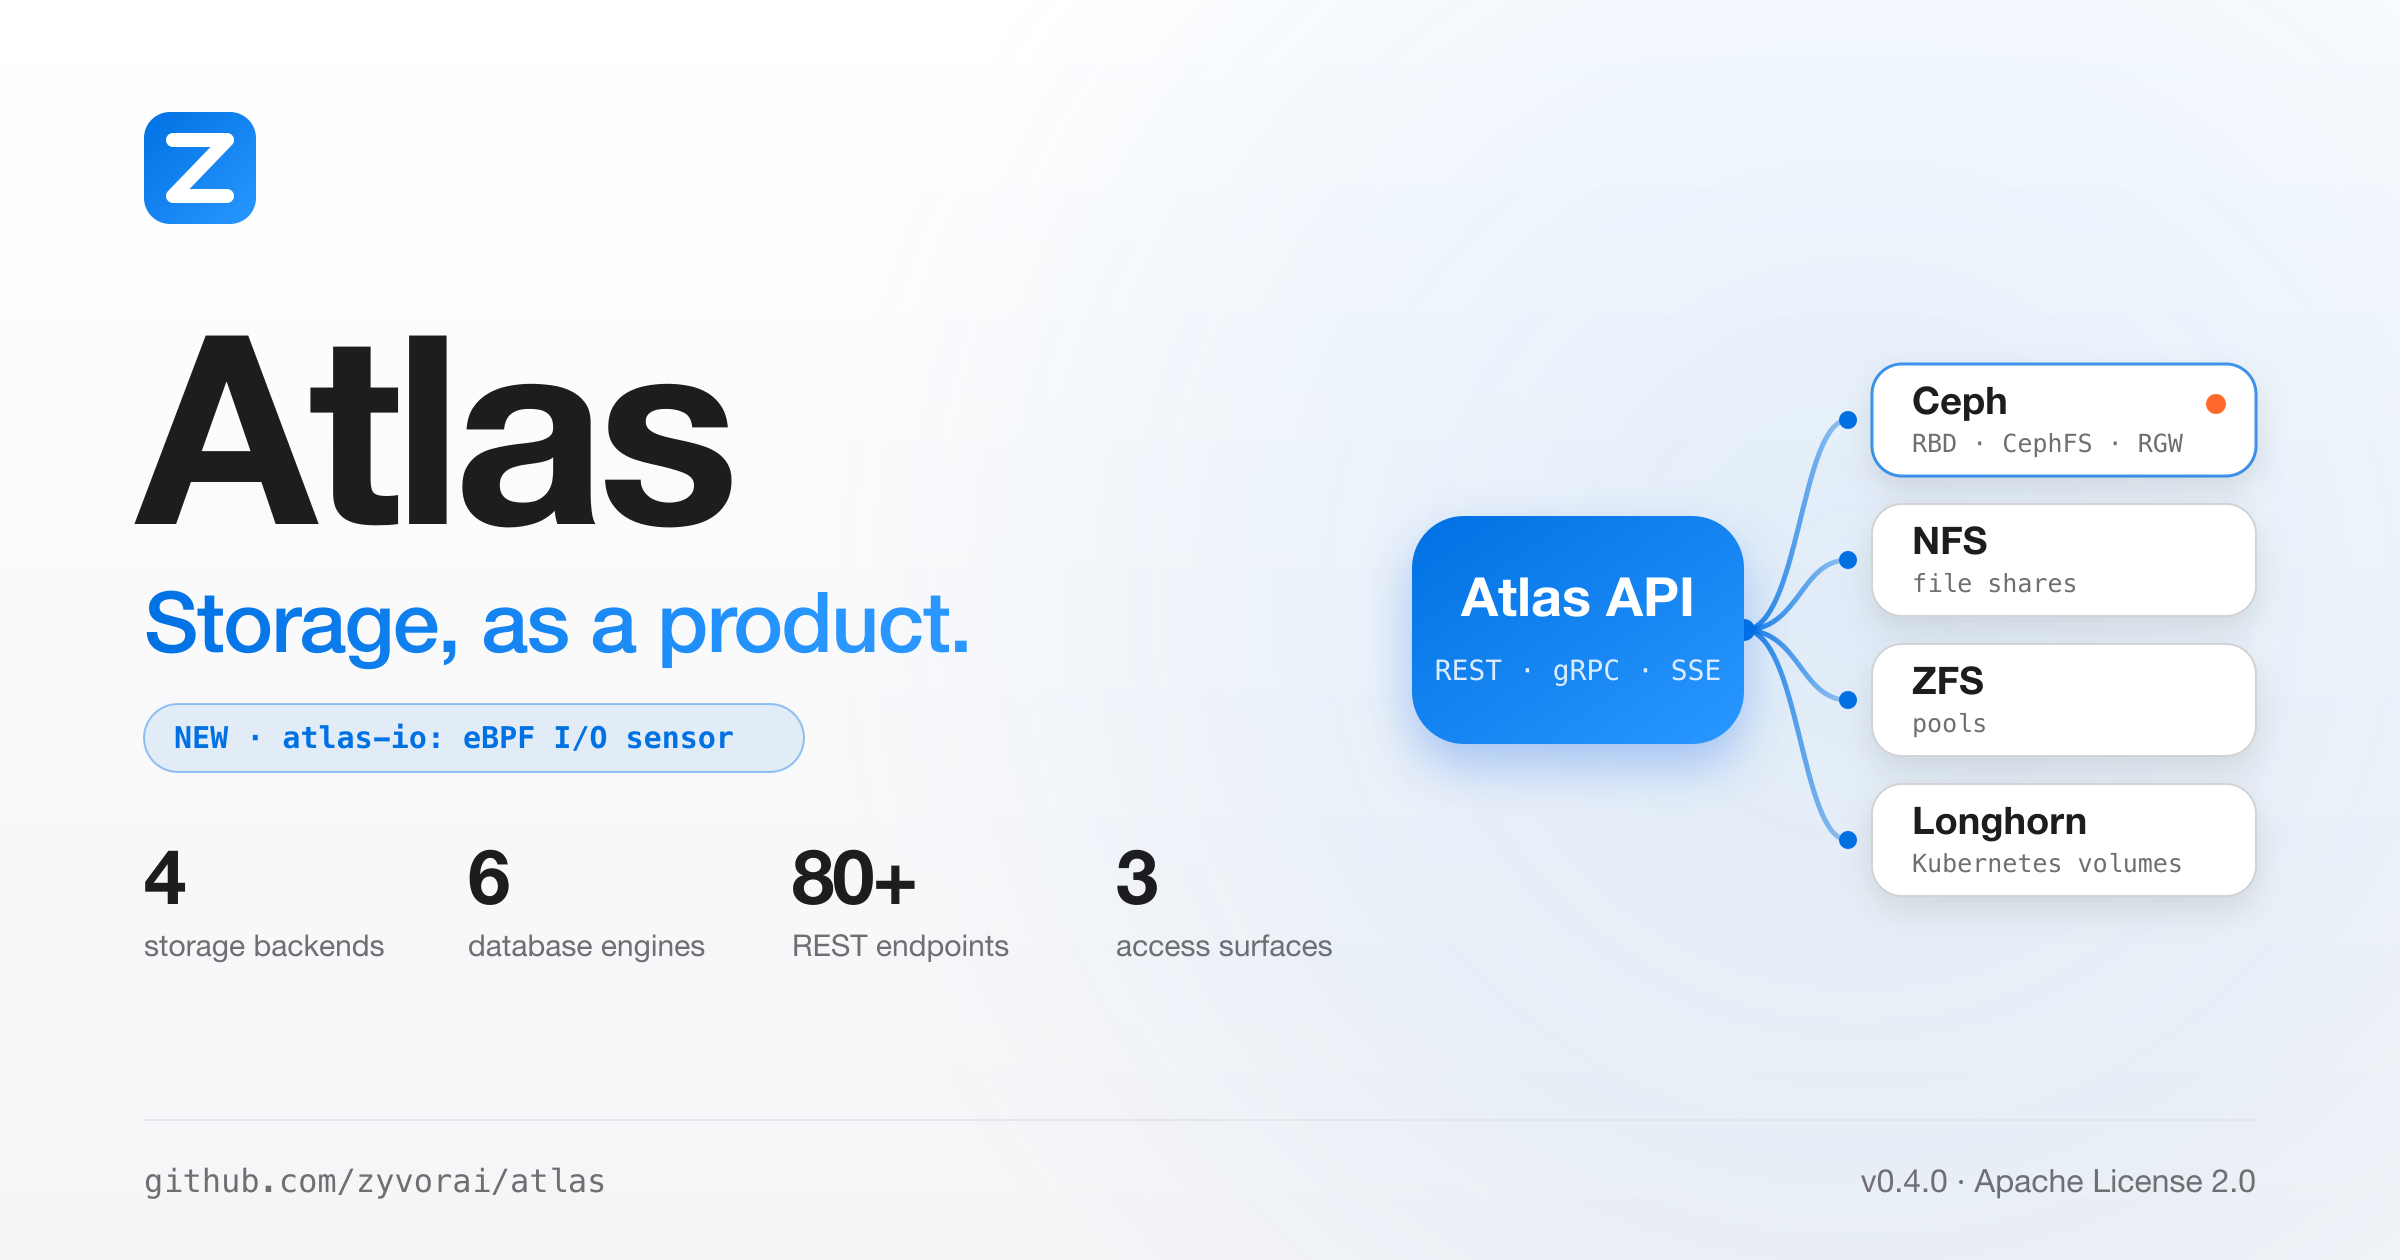
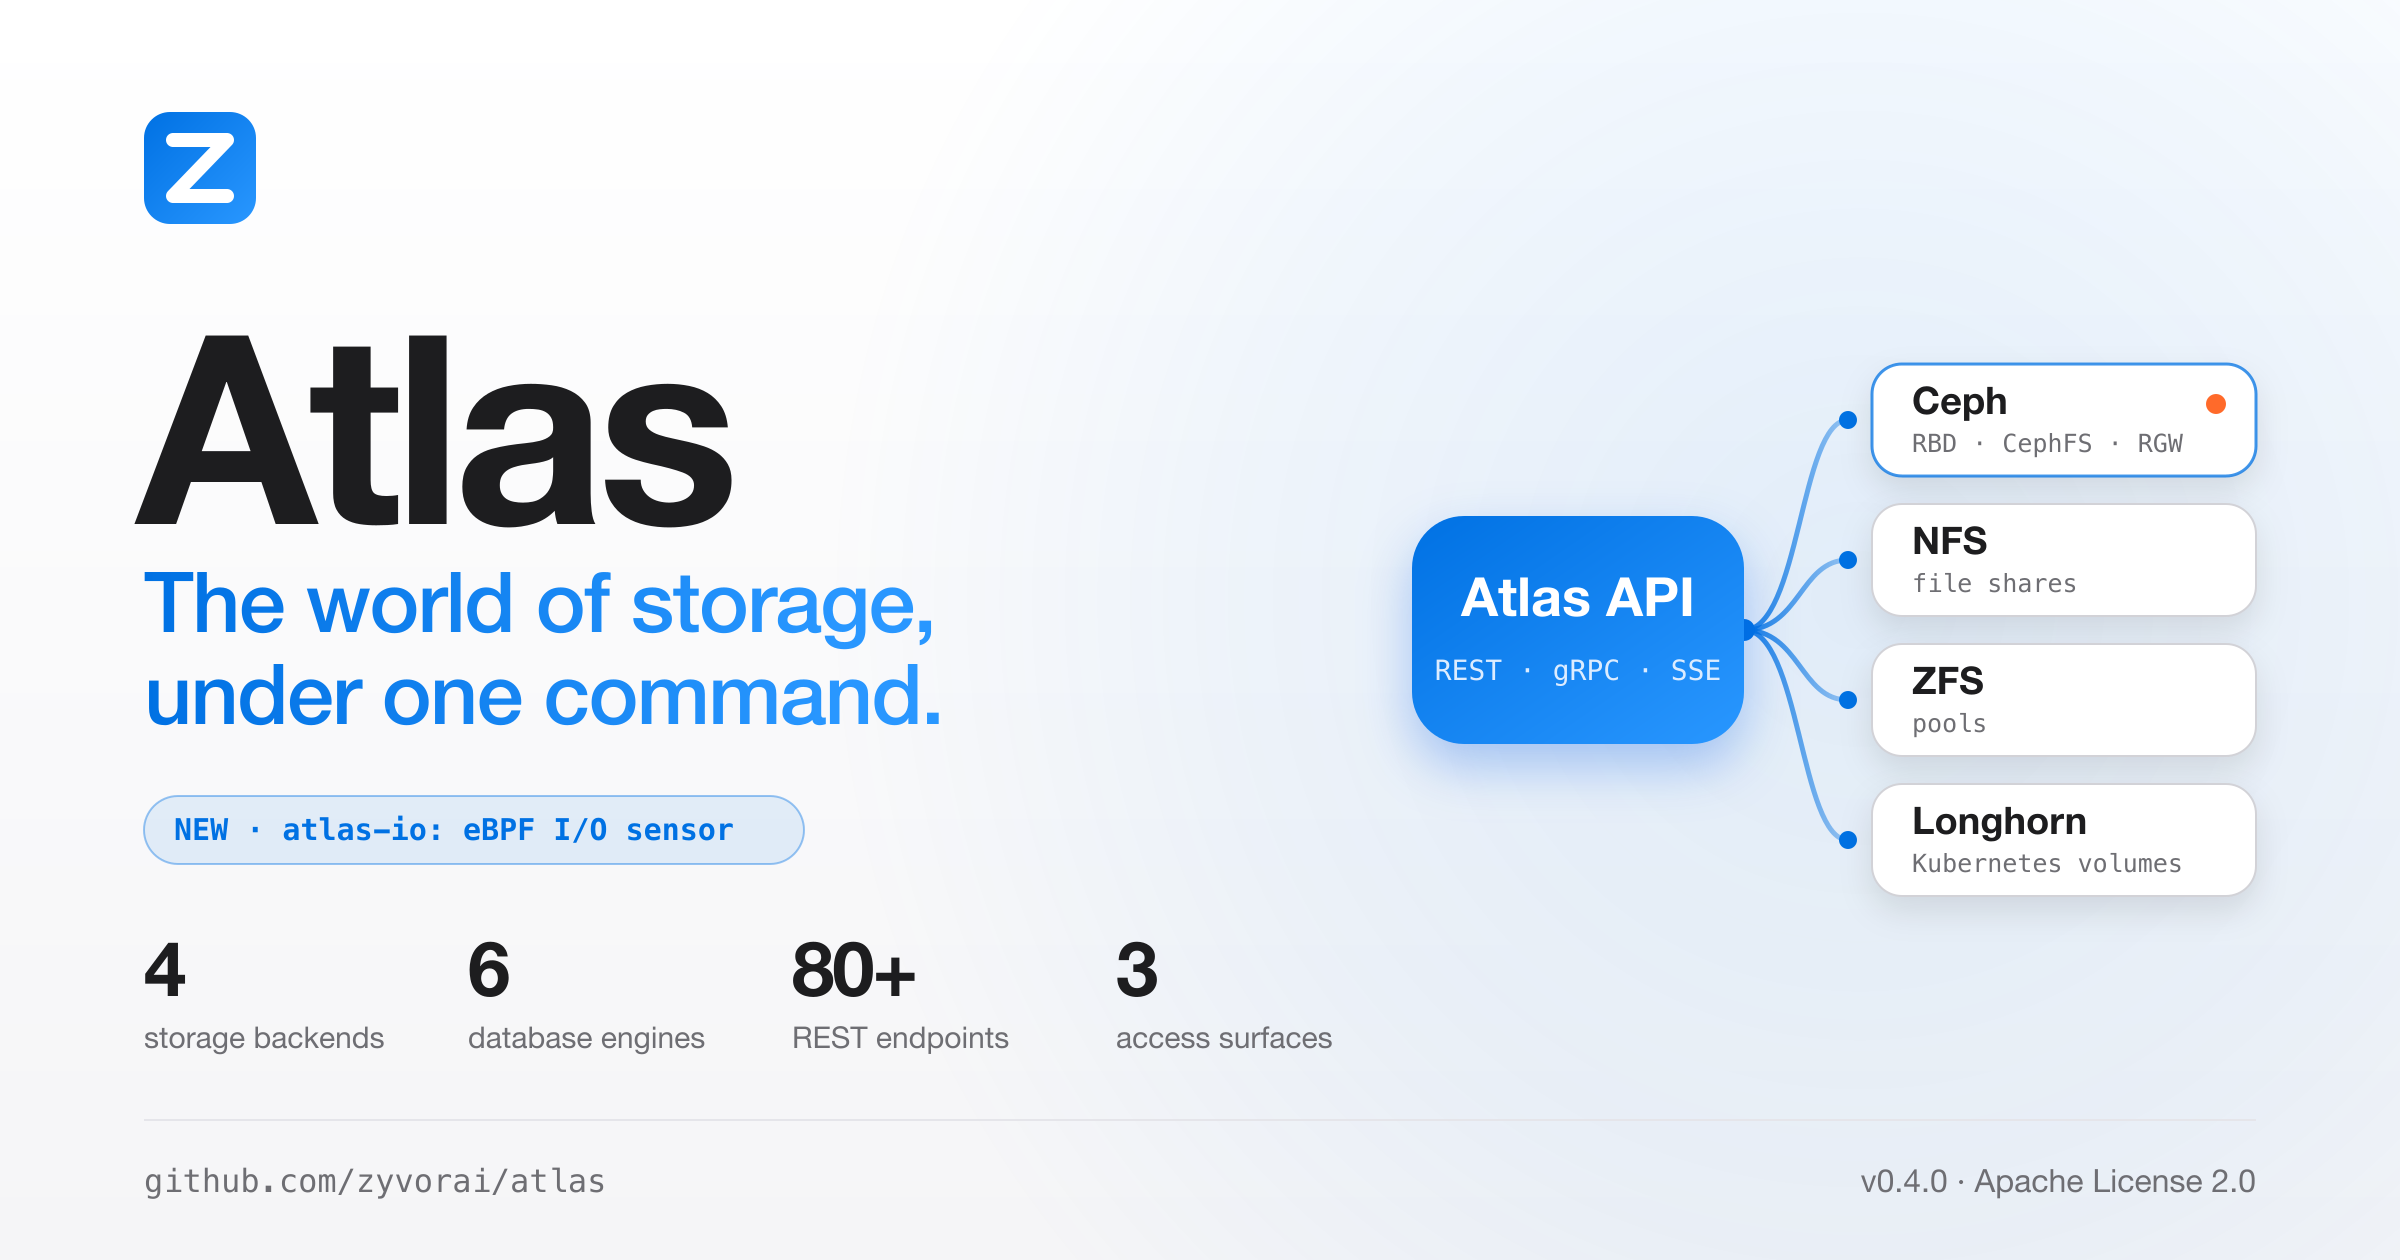
New tagline: "The world of storage, under one command."
Replaces "Storage, as a product." everywhere it appeared: README hero
+ alt text, the docs site homepage h1, and both share cards. The new
line is roughly double the length, so the share-card generator now
renders it as two lines instead of one; badge and stats shifted down
46px to keep clearance. Regenerated all four card PNGs (1x/2x, light/dark).

diff --git a/website/src/pages/index.tsx b/website/src/pages/index.tsx
@@ -19,7 +19,7 @@ function HomepageHeader() {
       <div className="container">
         <p className={styles.brandMark}>Atlas</p>
         <Heading as="h1" className="hero__title">
-          Storage, as a product.
+          The world of storage, under one command.
         </Heading>
         <p className="hero__subtitle">
           Zyvor&apos;s control plane maps intent to Ceph, NFS, and ZFS — with an

diff --git a/docs/social/build-share-cards.py b/docs/social/build-share-cards.py
@@ -22,6 +22,8 @@ DARK = dict(
 SANS = "'Helvetica Neue',Helvetica,Arial,sans-serif"
 MONO = "'Menlo','JetBrains Mono',monospace"
 
+TAGLINE = ("The world of storage,", "under one command.")
+
 # (name, detail); Ceph is the primary backend and carries the single orange dot. Object storage
 # defaults to Ceph RGW (no separate first-party object backend since RustFS was removed).
 BACKENDS = [
@@ -58,8 +60,8 @@ def svg(p, label):
     for i, (num, lab) in enumerate(STATS):
         x = 72 + i * 162
         stats.append(
-            f'<text x="{x}" y="452" font-size="38" font-weight="700" letter-spacing="-1" fill="{p["ink"]}">{num}</text>\n'
-            f'    <text x="{x}" y="478" font-size="15" fill="{p["sec"]}">{lab}</text>')
+            f'<text x="{x}" y="498" font-size="38" font-weight="700" letter-spacing="-1" fill="{p["ink"]}">{num}</text>\n'
+            f'    <text x="{x}" y="524" font-size="15" fill="{p["sec"]}">{lab}</text>')
     return f'''<!-- Copyright (c) 2026 ZyvorAI Labs Private Limited. -->
 <!-- SPDX-License-Identifier: Apache-2.0 -->
 <svg xmlns="http://www.w3.org/2000/svg" width="1200" height="630" viewBox="0 0 1200 630" role="img" aria-label="{label}">
@@ -109,11 +111,12 @@ def svg(p, label):
 
   <!-- wordmark + tagline -->
   <text x="68" y="262" font-family="{SANS}" font-size="132" font-weight="700" letter-spacing="-4" fill="{p['ink']}">Atlas</text>
-  <text x="72" y="326" font-family="{SANS}" font-size="42" font-weight="600" letter-spacing="-0.8" fill="url(#blueText)">Storage, as a product.</text>
+  <text x="72" y="316" font-family="{SANS}" font-size="42" font-weight="600" letter-spacing="-0.8" fill="url(#blueText)">{TAGLINE[0]}</text>
+  <text x="72" y="362" font-family="{SANS}" font-size="42" font-weight="600" letter-spacing="-0.8" fill="url(#blueText)">{TAGLINE[1]}</text>
 
   <!-- new: eBPF I/O sensor badge -->
-  <rect x="72" y="352" width="330" height="34" rx="17" fill="{p['wash']}" fill-opacity="{p['wash_op']}" stroke="{p['card_hi']}" stroke-opacity="0.4"/>
-  <text x="87" y="374" font-family="{MONO}" font-size="15" font-weight="700" fill="{p['card_hi']}">{NEW_BADGE}</text>
+  <rect x="72" y="398" width="330" height="34" rx="17" fill="{p['wash']}" fill-opacity="{p['wash_op']}" stroke="{p['card_hi']}" stroke-opacity="0.4"/>
+  <text x="87" y="420" font-family="{MONO}" font-size="15" font-weight="700" fill="{p['card_hi']}">{NEW_BADGE}</text>
 
   <!-- verified stats -->
   <g font-family="{SANS}">
@@ -145,7 +148,7 @@ def svg(p, label):
 
 if __name__ == "__main__":
     out = sys.argv[1] if len(sys.argv) > 1 else "docs/social"
-    label = ("Atlas — Storage, as a product. One API in front of Ceph, NFS, ZFS and Longhorn, "
+    label = (f"Atlas — {TAGLINE[0]} {TAGLINE[1]} One API in front of Ceph, NFS, ZFS and Longhorn, "
               "plus atlas-io: an observe-first eBPF I/O sensor.")
     open(f"{out}/atlas-share-card.svg", "w").write(svg(LIGHT, label))
     open(f"{out}/atlas-share-card-dark.svg", "w").write(svg(DARK, label))

diff --git a/README.md b/README.md
@@ -4,12 +4,12 @@
 
 <picture>
   <source media="(prefers-color-scheme: dark)" srcset="docs/social/atlas-share-card-dark.png">
-  <img src="docs/social/atlas-share-card.png" alt="Atlas — Storage, as a product." width="820">
+  <img src="docs/social/atlas-share-card.png" alt="Atlas — The world of storage, under one command." width="820">
 </picture>
 
 # Atlas
 
-### Storage, as a product.
+### The world of storage, under one command.
 
 The **central storage control plane** for the Zyvor suite.<br>
 Products call stable Atlas APIs; Atlas maps intent to Ceph, NFS, ZFS and Longhorn through pluggable drivers. Object storage defaults to Ceph RGW; any S3-compatible endpoint is usable via the generic RGW client.
